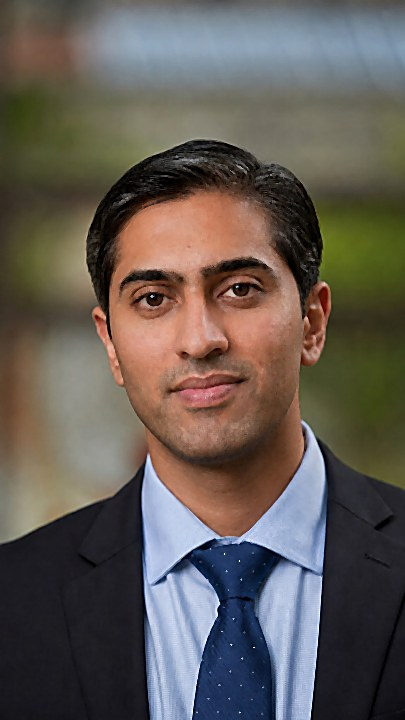
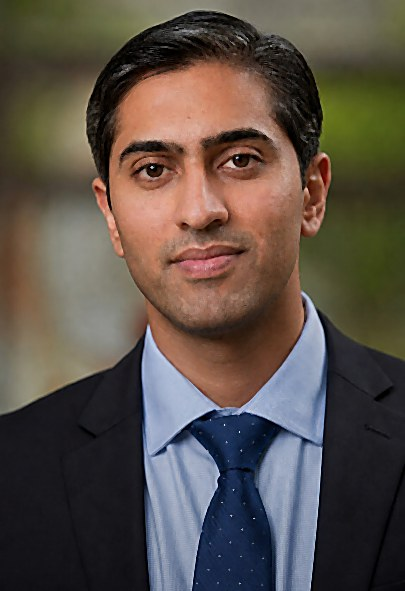
Photo: crop top 18% (show more suit) + vertical gradient darkening on jacket

diff --git a/index.html b/index.html
@@ -122,7 +122,7 @@
         <!-- Left column: portrait + identity + social -->
         <aside class="hero-side">
             <div class="photo-wrapper">
-                <img src="photo.jpg?v=h1c" alt="Abhijit Marar"
+                <img src="photo.jpg?v=h1d" alt="Abhijit Marar"
                      onerror="this.style.display='none'; document.getElementById('photo-fallback').style.display='flex';">
                 <div class="photo-fallback" id="photo-fallback">AM</div>
             </div>